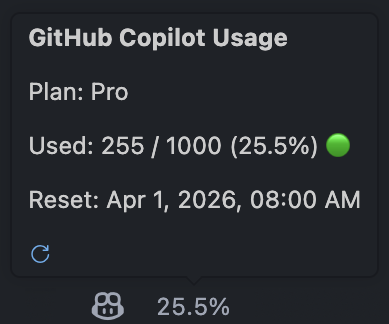
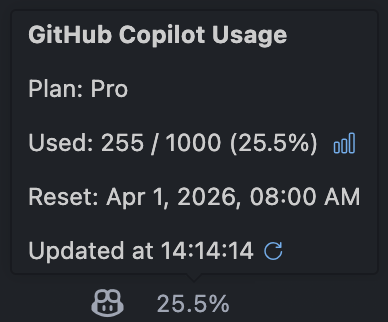
chore: update version to v0.3.0
- Bump version to 0.3.0
- Update CHANGELOG with 0.3.0 entries (billing link, timestamp, refresh button, remove dot)
- Update README tooltip description
- Update screenshots

diff --git a/README.md b/README.md
@@ -10,7 +10,7 @@
 ## Features
 
 - **Status bar**: shows used percentage (`15%`), turns yellow/red near threshold
-- **Hover tooltip**: plan, used / quota, overage (if any), reset date
+- **Hover tooltip**: plan, used / quota, overage (if any), reset date, last-updated timestamp — with a refresh button and a link to [Premium request analytics](https://github.com/settings/billing/premium_requests_usage)
 - **Auto-refresh**: configurable interval (default 5 min)
 - **Zero config**: uses your existing VS Code GitHub account sign-in
 

diff --git a/CHANGELOG.md b/CHANGELOG.md
@@ -4,6 +4,11 @@ All notable changes to this project will be documented in this file.
 
 The format is based on [Keep a Changelog](https://keepachangelog.com/en/1.0.0/).
 
+## [0.3.0] - 2026-03-11
+
+- ⏱ Show last-updated timestamp in tooltip (`Updated at HH:mm:ss`, or full date across days)
+- 📊 Add link icon in tooltip to open Premium request analytics on GitHub
+
 ## [0.2.0] - 2026-03-10
 
 - ⚙ Reorganize threshold settings under `threshold.*` namespace (`threshold.enabled`, `threshold.warning`, `threshold.critical`)
